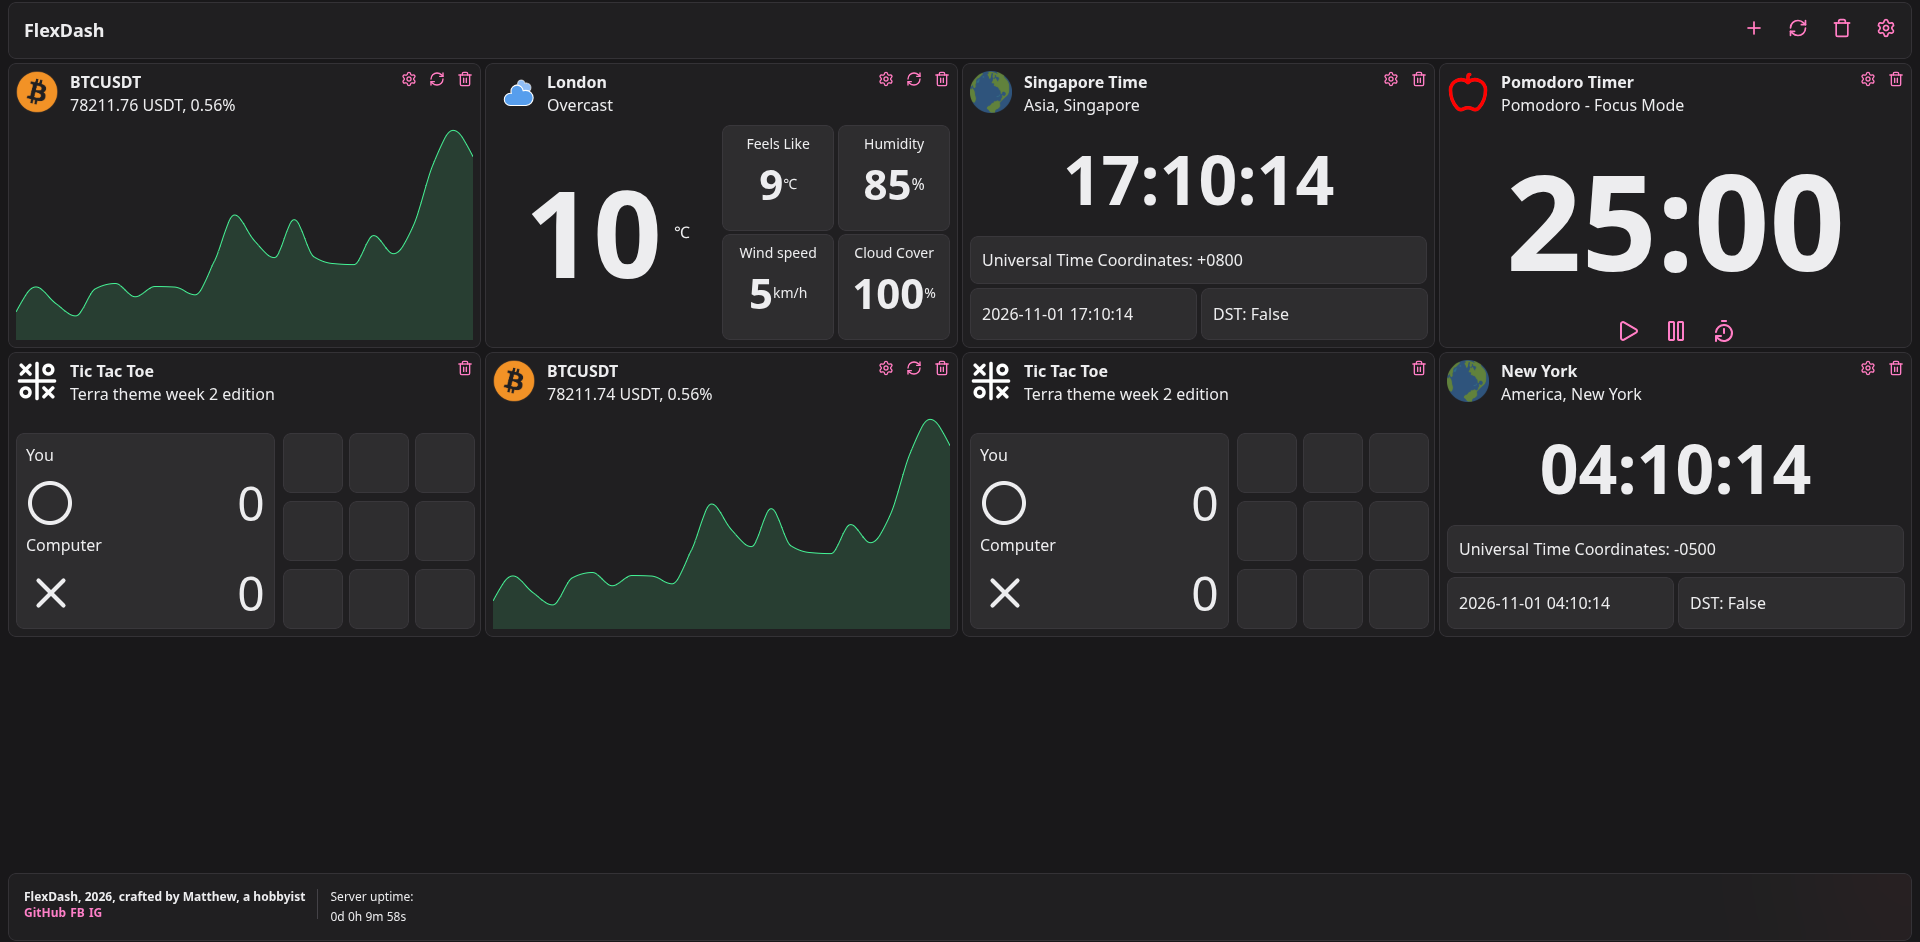
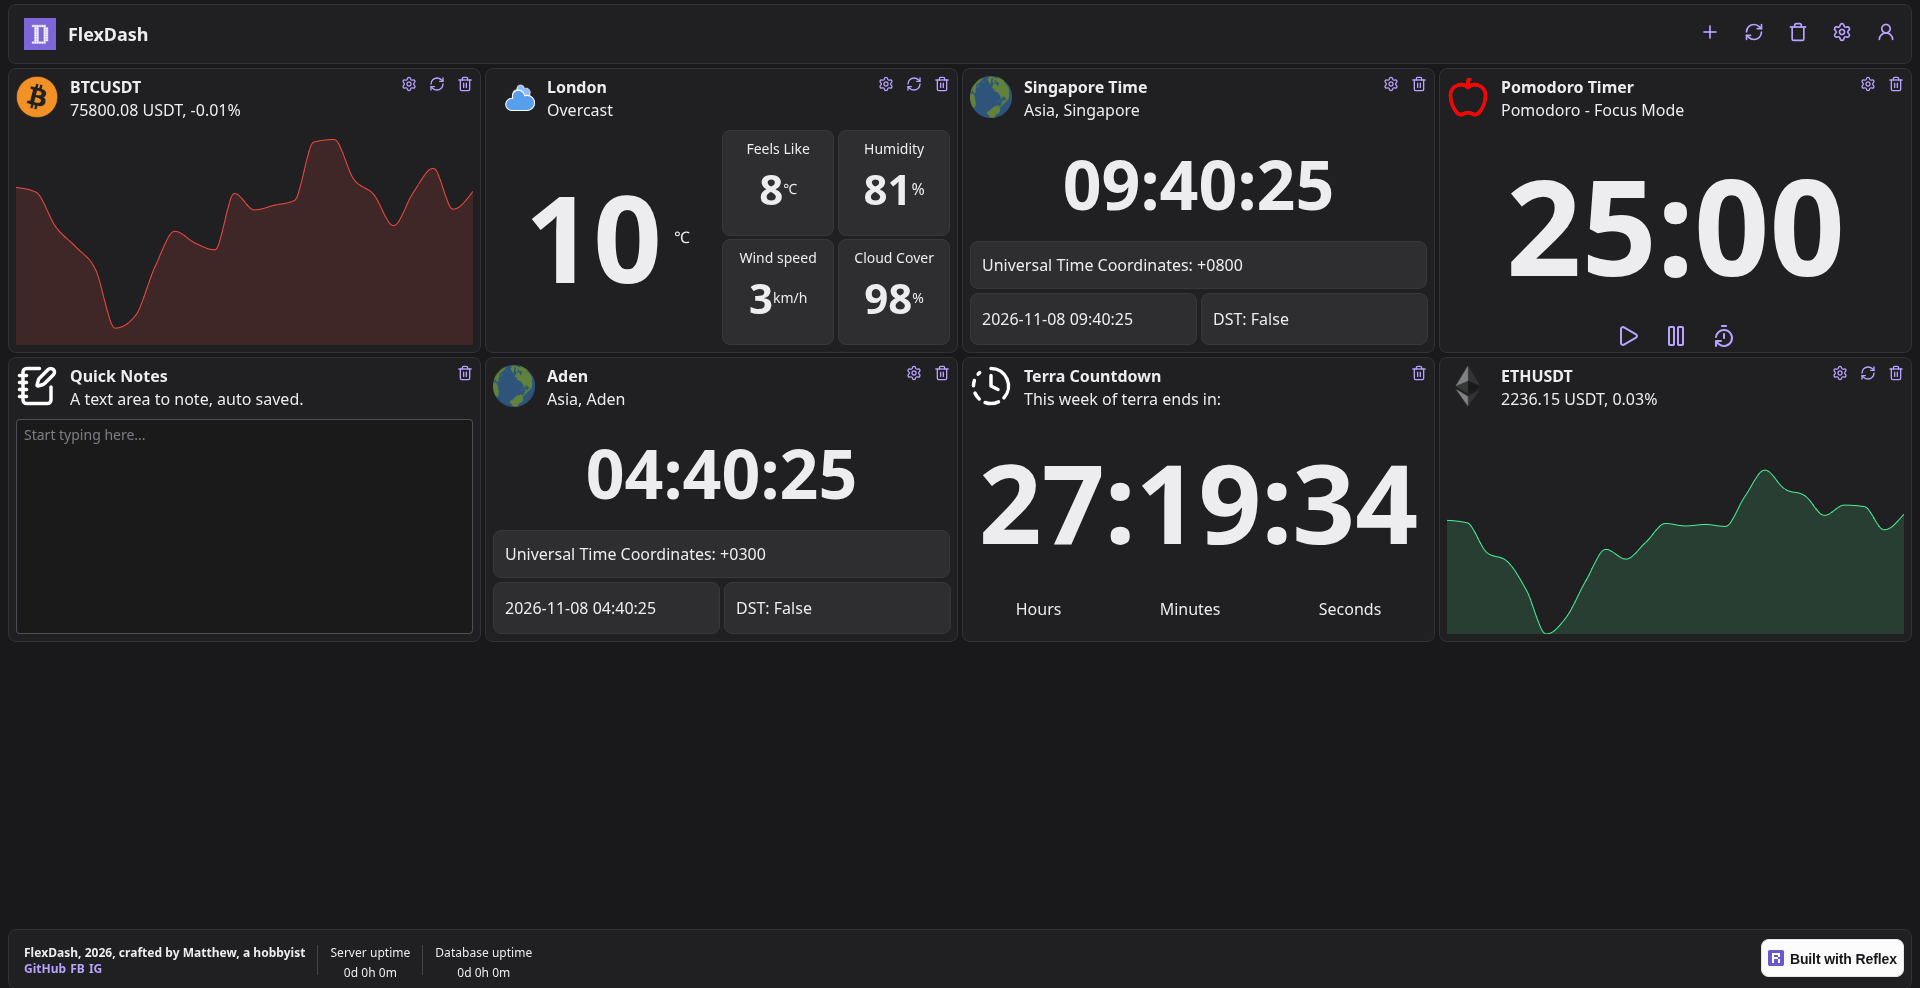
V3.5 Patch

diff --git a/RUNNING.md b/RUNNING.md
@@ -1,9 +1,13 @@
 ## How to run locally (Linux only)
-- Supported python versions : 3.11, 3.12, 3.13, 3.14 . Recommended 3.14
-- Make sure you have **python** and **git** installed  
-- Run command below  
 
-**Personal Dashboard V2 Docker(Install docker first.)** [Click when you done command below](http://localhost:65003)
+**Personal Dashboard V3 LATEST, docker compose** 
+1. Install docker. If you haven't, visit [Docker Desktop Installation](https://docs.docker.com/desktop/)
+2. Download docker-compose.yml at release page
+3. Create a folder and move docker-compose.yml into it
+4. Run `docker compose up` and visit [Website](localhost:3000)  
+Note: Running this will not have HTTPS.
+
+**Personal Dashboard V2 Docker (Install docker first.)** [Click when you done command below](http://localhost:65003)
 ```bash
 docker network create reflex-net
 docker run -d --network reflex-net -p 65500:123/udp --name ntp-server cturra/ntp:latest
@@ -11,6 +15,10 @@ docker run -d --network reflex-net -p 65503:65503 --name Reflex-PDash-V2 nuggett
 ```
   
 **Personal Dashboard V1:**
+- Supported python versions : 3.11, 3.12, 3.13, 3.14 . Recommended 3.14
+- Make sure you have **python** and **git** installed  
+- Run command below  
+
   ```bash
   git clone https://github.com/matthew-teh/PersonalDash.git
   cd PersonalDash
@@ -29,6 +37,10 @@ Personal Dashboard V1 Only:
 7. Delete original folder of `weather-icons` and `Cryptocurrency_Logos`
 
 **Personal Dashboard Beta:**
+- Supported python versions : 3.11, 3.12, 3.13, 3.14 . Recommended 3.14
+- Make sure you have **python** and **git** installed  
+- Run command below  
+
   ```bash 
   git clone https://github.com/matthew-teh/PersonalDash.git
   cd PersonalDash

diff --git a/README.md b/README.md
@@ -8,6 +8,8 @@ A website built with **Python Reflex**, includes daily needed widget.
 - **World Clock** - Display live time of a city, auto refresh.
 - **Pomodoro TImer** - Pomodoro based timer that let you focus
 - **Tic Tac Toe** - A mini game that can played with computer, based on Terra week theme: ANTIQUE 8 bit game
+- **Quick Notes** - A blank space for you to type anything
+- **Terra countdown** - Shows how much hours you have left to code and ship.
 
 ## Versions
 - Personal Dashboard V3  , Latest Relased : [Website Link](http://relaymatthew.duckdns.org:65503)
